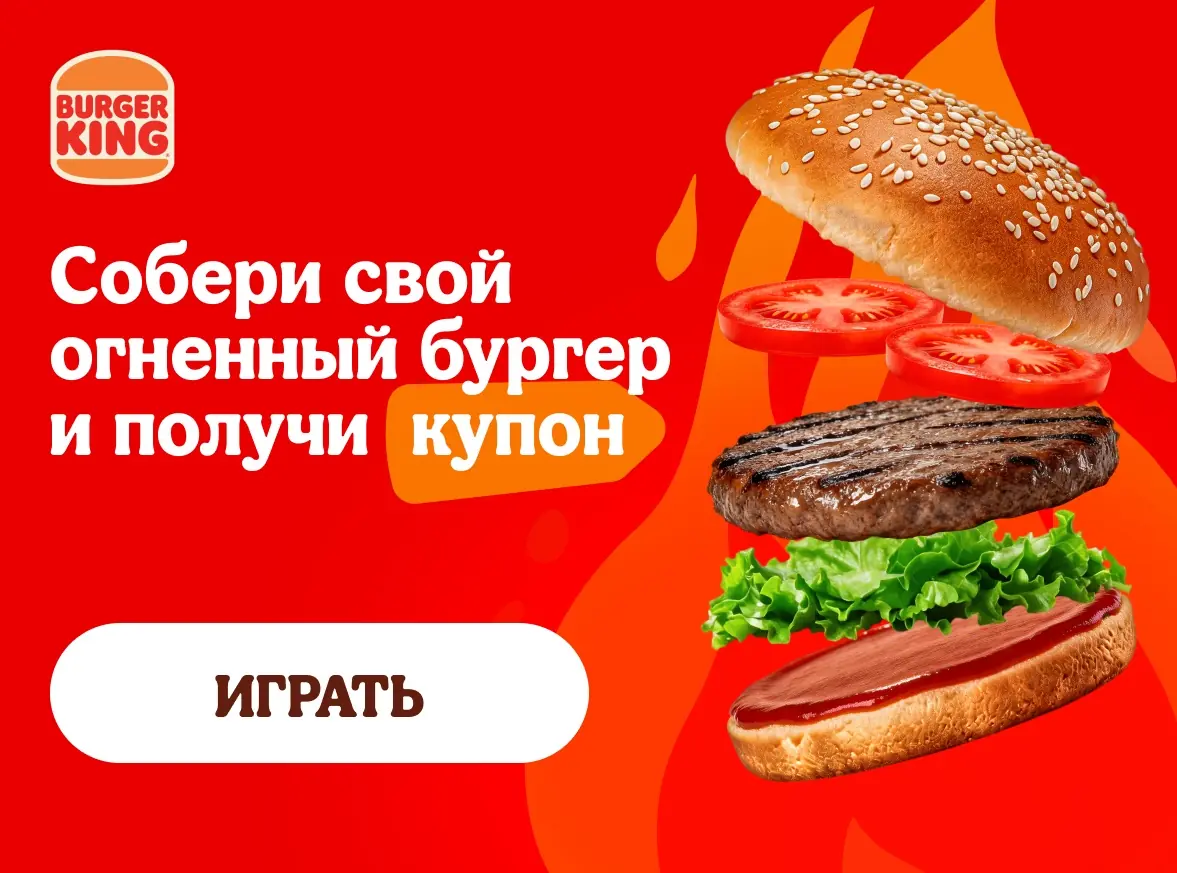
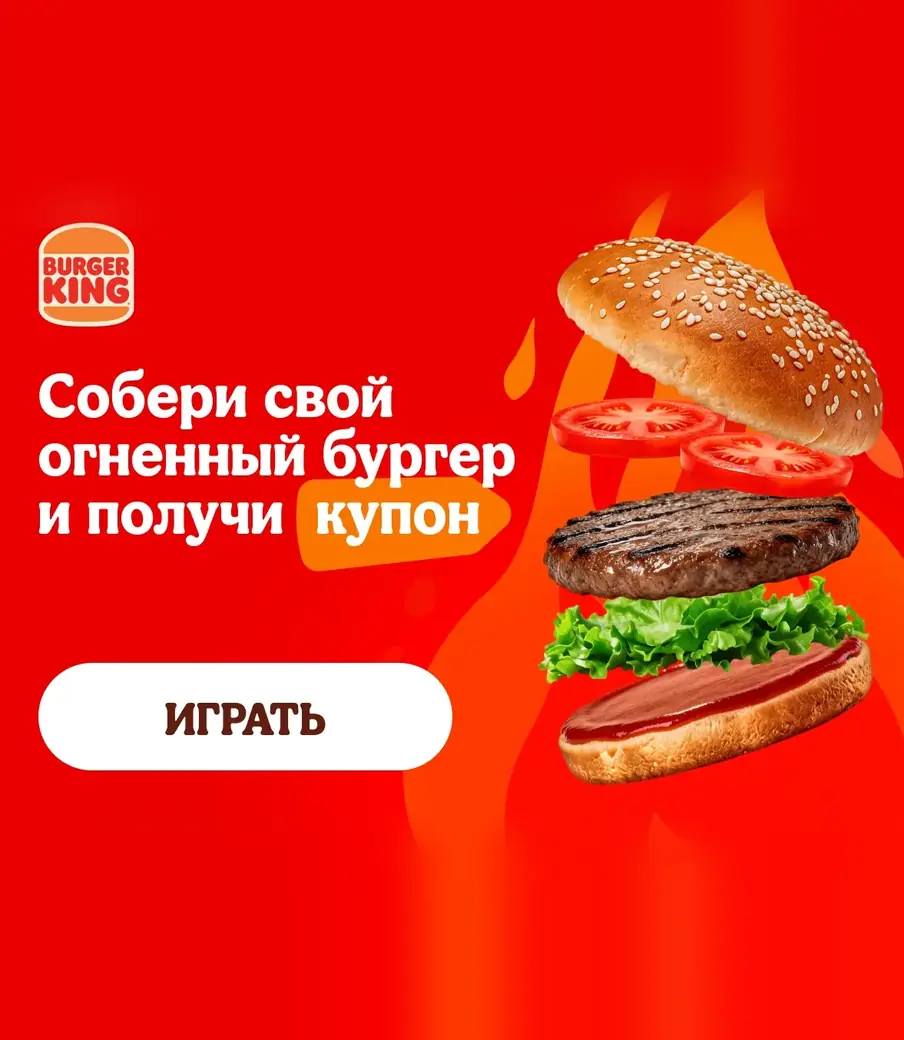
Растянуть картинки кейсов на всю рамку
Фон картинок NDA, Burger King, кастдева и марафона Т-Банка достроен до
пропорции рамки (продлены края с размытием и мягким стыком), картинки
заполняют рамку целиком (object-fit: cover), без бежевых полос. Марафон
Т-Банка теперь лежит в репозитории. Tiswell пока вписан как раньше.
На мобильном рамка той же пропорции 452:520.

Claude-Session: https://claude.ai/code/session_01XZFP5vVLoSGBQda1ErRmb9

diff --git a/index.html b/index.html
@@ -135,7 +135,9 @@
   @keyframes case-text-in { from { opacity: 0; transform: translateX(calc(var(--dir, 1) * 28px)); } }
   .case-card { background: var(--sheet); padding: 14px; display: flex; flex-direction: column; gap: 12px; }
   .case-img { height: calc(520 * var(--u)); min-height: 320px; background: var(--stripe-a); display: flex; align-items: center; justify-content: center; }
-  .case-img img { max-width: 100%; max-height: 100%; object-fit: contain; }
+  .case-img { position: relative; overflow: hidden; }
+  .case-img img { position: absolute; inset: 0; width: 100%; height: 100%; object-fit: cover; }
+  .case-img-contain img { object-fit: contain; }
   .case-caption { display: flex; justify-content: space-between; color: var(--ink); font-size: 10px; letter-spacing: 0.12em; text-transform: uppercase; }
   .case-info { display: flex; flex-direction: column; gap: 26px; }
   .case-title { font-family: var(--display); font-weight: 800; font-size: max(40px, calc(52 * var(--u))); line-height: 0.92; text-transform: uppercase; text-wrap: balance; overflow-wrap: anywhere; }
@@ -284,7 +286,7 @@
     .cases-index { display: none; }
     .case { grid-template-columns: 1fr; gap: 18px; }
     .case-card { padding: 8px; gap: 0; }
-    .case-img { height: 240px; min-height: 0; }
+    .case-img { height: auto; min-height: 0; aspect-ratio: 452 / 520; }
     .case-caption { display: none; }
     .case-info { gap: 18px; }
     .case-title { font-size: calc(34 * var(--m)); line-height: 0.95; text-wrap: wrap; }
@@ -511,7 +513,7 @@
     <div id="caseSlides">
       <article class="case">
         <div class="case-card">
-          <div class="case-img"><img src="img/cases/nda-scale.webp" alt="Иллюстрация: договорённость с партнёром и рост результатов" width="714" height="714" loading="lazy"></div>
+          <div class="case-img"><img src="img/cases/nda-scale.webp" alt="Иллюстрация: договорённость с партнёром и рост результатов" width="904" height="1040" loading="lazy"></div>
           <div class="case-caption"><span>Кейс № 01</span><span>01 / 05</span></div>
         </div>
         <div class="case-info">
@@ -524,7 +526,7 @@
       </article>
       <article class="case" hidden>
         <div class="case-card">
-          <div class="case-img"><img src="img/cases/burger-king.webp" alt="Интерактивный баннер Burger King «Собери свой огненный бургер и получи купон»" width="1177" height="873" loading="lazy"></div>
+          <div class="case-img"><img src="img/cases/burger-king.webp" alt="Интерактивный баннер Burger King «Собери свой огненный бургер и получи купон»" width="904" height="1040" loading="lazy"></div>
           <div class="case-caption"><span>Кейс № 02</span><span>02 / 05</span></div>
         </div>
         <div class="case-info">
@@ -537,7 +539,7 @@
       </article>
       <article class="case" hidden>
         <div class="case-card">
-          <div class="case-img"><img src="img/cases/custdev-banks.webp" alt="Иллюстрация: анализ индустрии, цели и точечные предложения для банков" width="1448" height="1086" loading="lazy"></div>
+          <div class="case-img"><img src="img/cases/custdev-banks.webp" alt="Иллюстрация: анализ индустрии, цели и точечные предложения для банков" width="904" height="1040" loading="lazy"></div>
           <div class="case-caption"><span>Кейс № 03</span><span>03 / 05</span></div>
         </div>
         <div class="case-info">
@@ -550,7 +552,7 @@
       </article>
       <article class="case" hidden>
         <div class="case-card">
-          <div class="case-img"><img src="https://i.ibb.co/BKrtzJDz/i.webp" alt="Марафон T-Банк в Одноклассниках" loading="lazy"></div>
+          <div class="case-img"><img src="img/cases/tbank-marathon.webp" alt="Марафон T-Банк в Одноклассниках" width="904" height="1040" loading="lazy"></div>
           <div class="case-caption"><span>Кейс № 04</span><span>04 / 05</span></div>
         </div>
         <div class="case-info">
@@ -563,7 +565,7 @@
       </article>
       <article class="case" hidden>
         <div class="case-card">
-          <div class="case-img"><img src="https://i.ibb.co/NnTXK11G/Frame-10-2.png" alt="Интерактивный спецпроект Tiswell" loading="lazy"></div>
+          <div class="case-img case-img-contain"><img src="https://i.ibb.co/NnTXK11G/Frame-10-2.png" alt="Интерактивный спецпроект Tiswell" loading="lazy"></div>
           <div class="case-caption"><span>Кейс № 05</span><span>05 / 05</span></div>
         </div>
         <div class="case-info">
